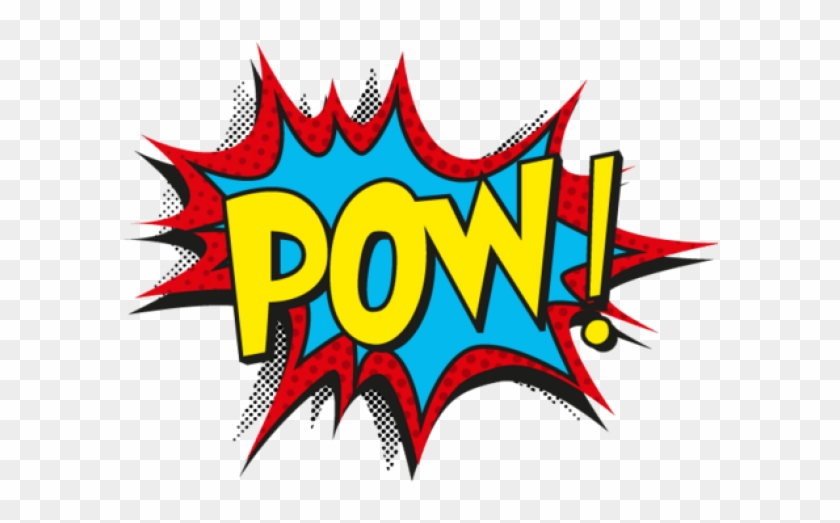
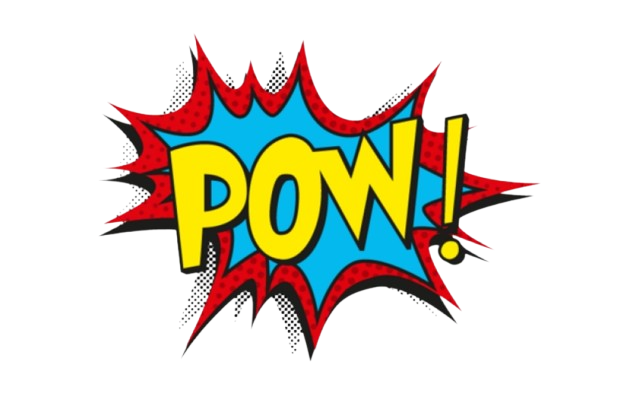
fixed random punch functionality so now it shows and hides the image properly during state changes. Removed the test trigger on the tabs and passed the function down as a prop to the list and grid view so selecting a hero will trigger the punch random function. Updated the image also so it is truly 

diff --git a/src/views/SuperheroDataContainer.js b/src/views/SuperheroDataContainer.js
@@ -18,27 +18,32 @@ export default function SuperheroDataContainer() {
   const [triggerPopup, setTriggerPopup] = useState(false);
 
 
-  // Fetch superhero data once when the component mounts
-  useEffect(() => {
-    fetch('https://tppublic.blob.core.windows.net/test-data/super-heroes.json')
-      .then(response => response.json())
-      .then(data => setSuperheroes(data))
-      .catch(error => console.error('Error fetching superhero data:', error));
-  }, []);
+    // Fetch superhero data once when the component mounts
+    useEffect(() => {
+        fetch('https://tppublic.blob.core.windows.net/test-data/super-heroes.json')
+        .then(response => response.json())
+        .then(data => setSuperheroes(data))
+        .catch(error => console.error('Error fetching superhero data:', error));
+    }, []);
 
-  const handleTabClick = (tabName) => {
-    if (tabName === 'List View') {
-      setActiveTab('list');
-    } else if (tabName === 'Grid View') {
-      setActiveTab('grid');
-    }
+    const handleTabClick = (tabName) => {
+        if (tabName === 'List View') {
+        setActiveTab('list');
+        } else if (tabName === 'Grid View') {
+        setActiveTab('grid');
+        }
+    };
 
-    // Trigger the popup when clicking a tab
-    //setTriggerPopup(true);
-
-    // Reset the trigger after 1 second
-    //setTimeout(() => setTriggerPopup(false), 1000);
-  };
+    const handleHeroSelect = () => {
+        console.log("Hero selected, setting triggerPopup to true");
+        setTriggerPopup(true);
+    
+        // Reset the trigger after 1 second
+        setTimeout(() => {
+          console.log("Resetting triggerPopup to false");
+          setTriggerPopup(false);
+        }, 1000);
+    };
 
   return (
     <div className="flex justify-center items-center h-screen">
@@ -92,8 +97,8 @@ export default function SuperheroDataContainer() {
 
         {/* Content with border */}
         <div className="p-4 border border-gray-300 rounded-lg max-h-[calc(100vh-10rem)] overflow-y-auto">
-          {activeTab === 'list' && <SuperheroList superheroes={superheroes} />}
-          {activeTab === 'grid' && <SuperheroGrid superheroes={superheroes} />}
+            {activeTab === 'list' && <SuperheroList superheroes={superheroes} onHeroSelect={handleHeroSelect} />}
+            {activeTab === 'grid' && <SuperheroGrid superheroes={superheroes} onHeroSelect={handleHeroSelect} />}
         </div>
 
         <PunchRandom trigger={triggerPopup} />

diff --git a/src/components/PunchRandom.js b/src/components/PunchRandom.js
@@ -2,7 +2,6 @@ import React, { useState, useEffect } from 'react';
 
 const PunchRandom = ({ trigger }) => {
   const [isVisible, setIsVisible] = useState(false);
-  const [opacity, setOpacity] = useState(1);
   const [randomPosition, setRandomPosition] = useState({ top: '0px', left: '0px' });
 
   useEffect(() => {
@@ -14,32 +13,22 @@ const PunchRandom = ({ trigger }) => {
 
         // Show the image
         setIsVisible(true);
-        setOpacity(1);
 
-        const fadeTimeout = setTimeout(() => {
-            setOpacity(0);
-          }, 0);
-
-          const hideTimeout = setTimeout(() => {
+        const hideTimeout = setTimeout(() => {
             setIsVisible(false);
-          }, 1000); // 1 second
+        }, 500); // .5 second
 
-        return () => {
-            clearTimeout(fadeTimeout);
-            clearTimeout(hideTimeout);
-        }
+        return () => clearTimeout(hideTimeout);
     }
   }, [trigger]);
 
   return (
     <div
-        className={`fixed transition-opacity duration-1000`}
+        className={"fixed"}
         style={{
             top: randomPosition.top,
             left: randomPosition.left,
             zIndex: 1000,
-            opacity: opacity, // Dynamic opacity
-            transition: 'opacity 1s ease-in-out', // Smooth transition
         }}
     >
         {isVisible && (

diff --git a/src/views/SuperheroList.js b/src/views/SuperheroList.js
@@ -1,7 +1,7 @@
 import React, { useEffect, useState } from 'react';
 import { Labels, Messages, Headings } from '../constants/strings';
 
-const SuperheroListView = ({superheroes}) => {
+const SuperheroListView = ({superheroes, onHeroSelect}) => {
     //enable this if the data changes often and we want to load it fresh every time the tab is clicked
     /*
     //const [superheroes, setSuperheroes] = useState([]);
@@ -22,6 +22,7 @@ const SuperheroListView = ({superheroes}) => {
   
     const handleExpandClick = (heroId) => {
       setExpandedHeroId(expandedHeroId === heroId ? null : heroId);
+      onHeroSelect();
     };
   
     const filteredHeroes = superheroes.filter((hero) => {

diff --git a/src/views/SuperheroGrid.js b/src/views/SuperheroGrid.js
@@ -2,7 +2,7 @@ import React, { useState } from 'react';
 import { Labels, Messages, Headings, Actions } from '../constants/strings';
 
 
-const SuperheroGridView = ({ superheroes }) => {
+const SuperheroGridView = ({ superheroes, onHeroSelect }) => {
     //enable this if the data changes often and we want to load it fresh every time the tab is clicked
     /*
     //const [superheroes, setSuperheroes] = useState([]);
@@ -31,6 +31,7 @@ const SuperheroGridView = ({ superheroes }) => {
 
     const handleHeroClick = (hero) => {
         setOpenHero(hero);
+        onHeroSelect();
     };
 
     const closeModal = () => {
